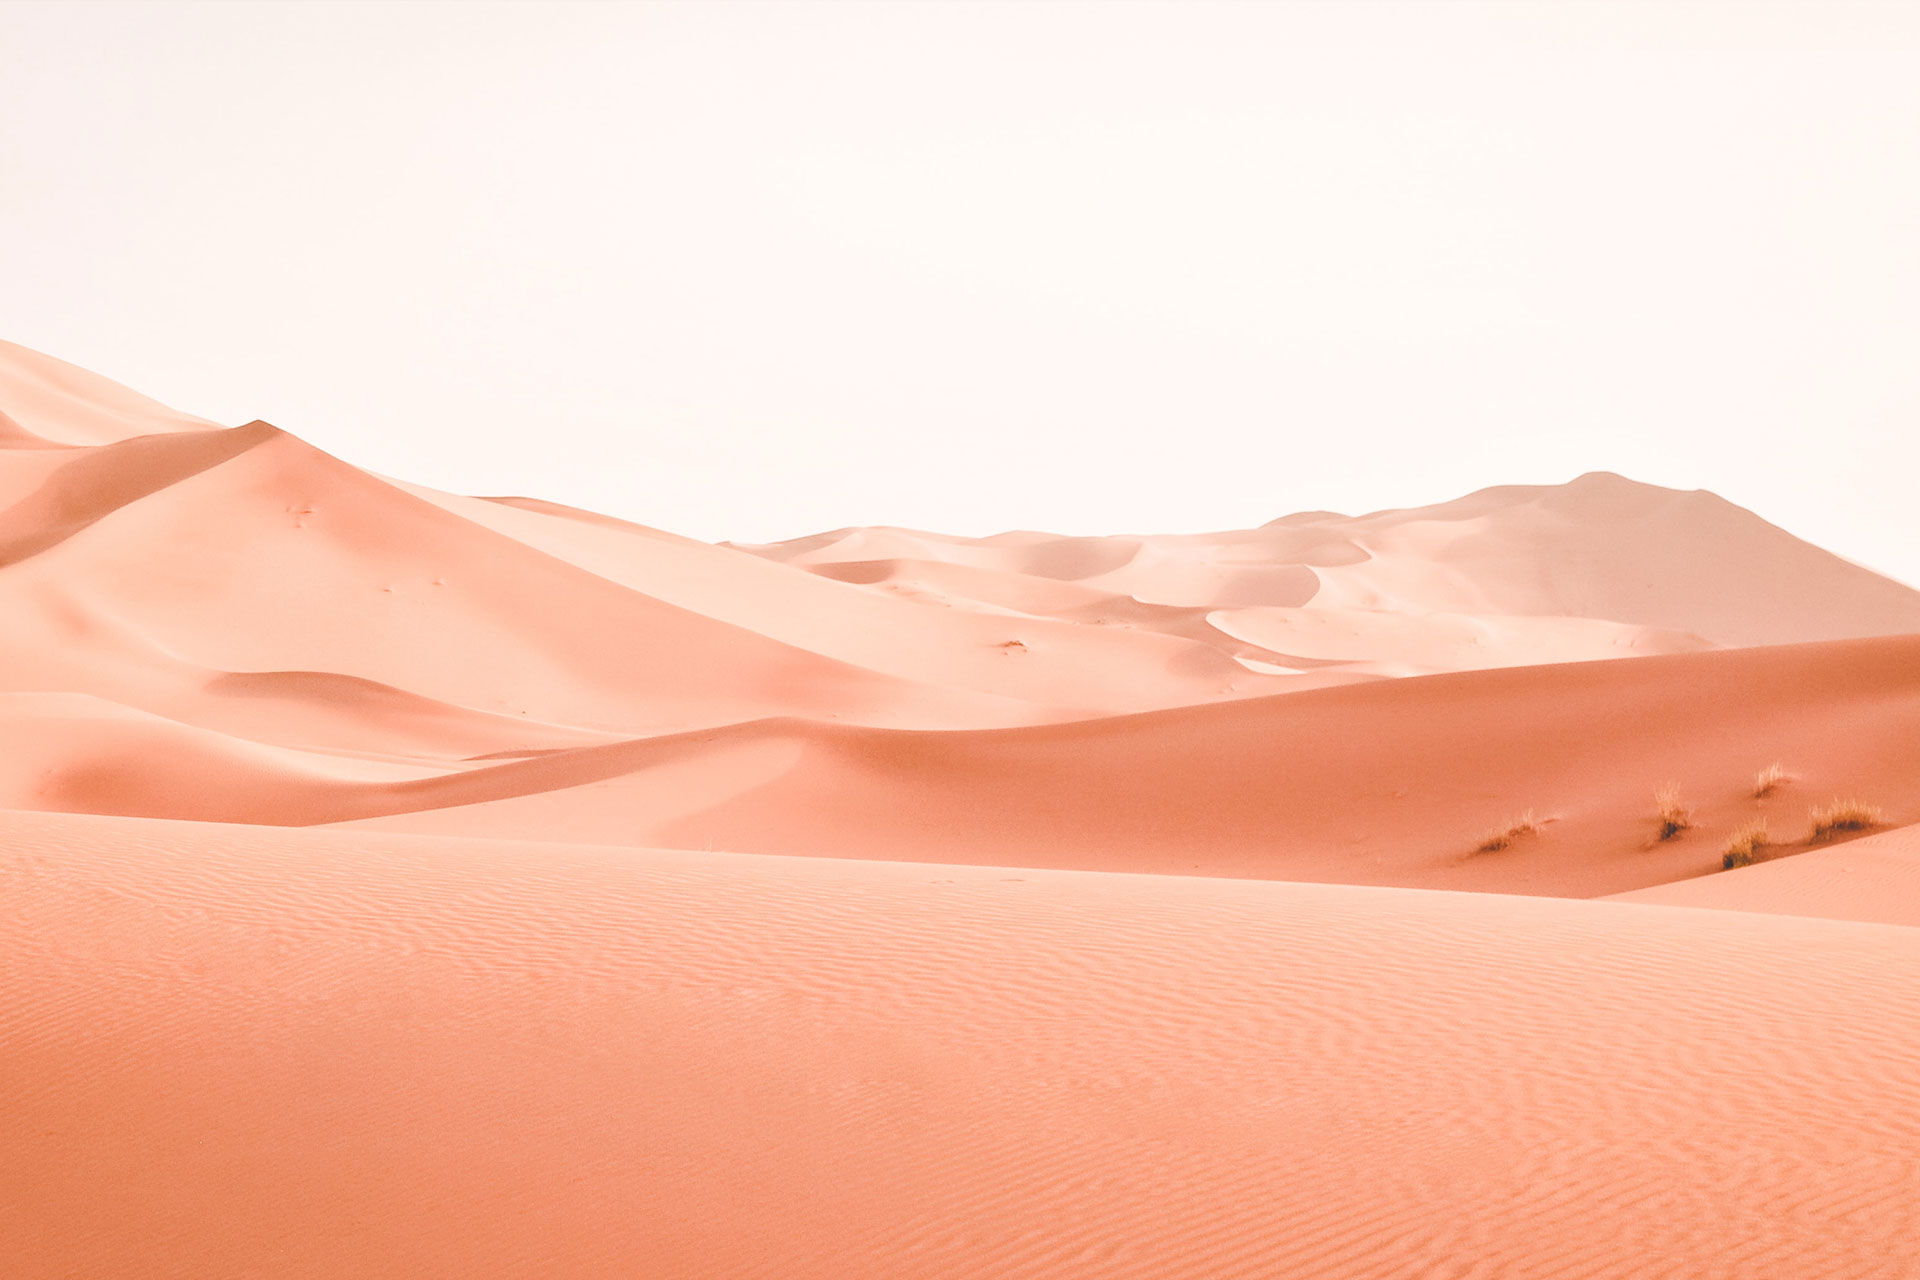
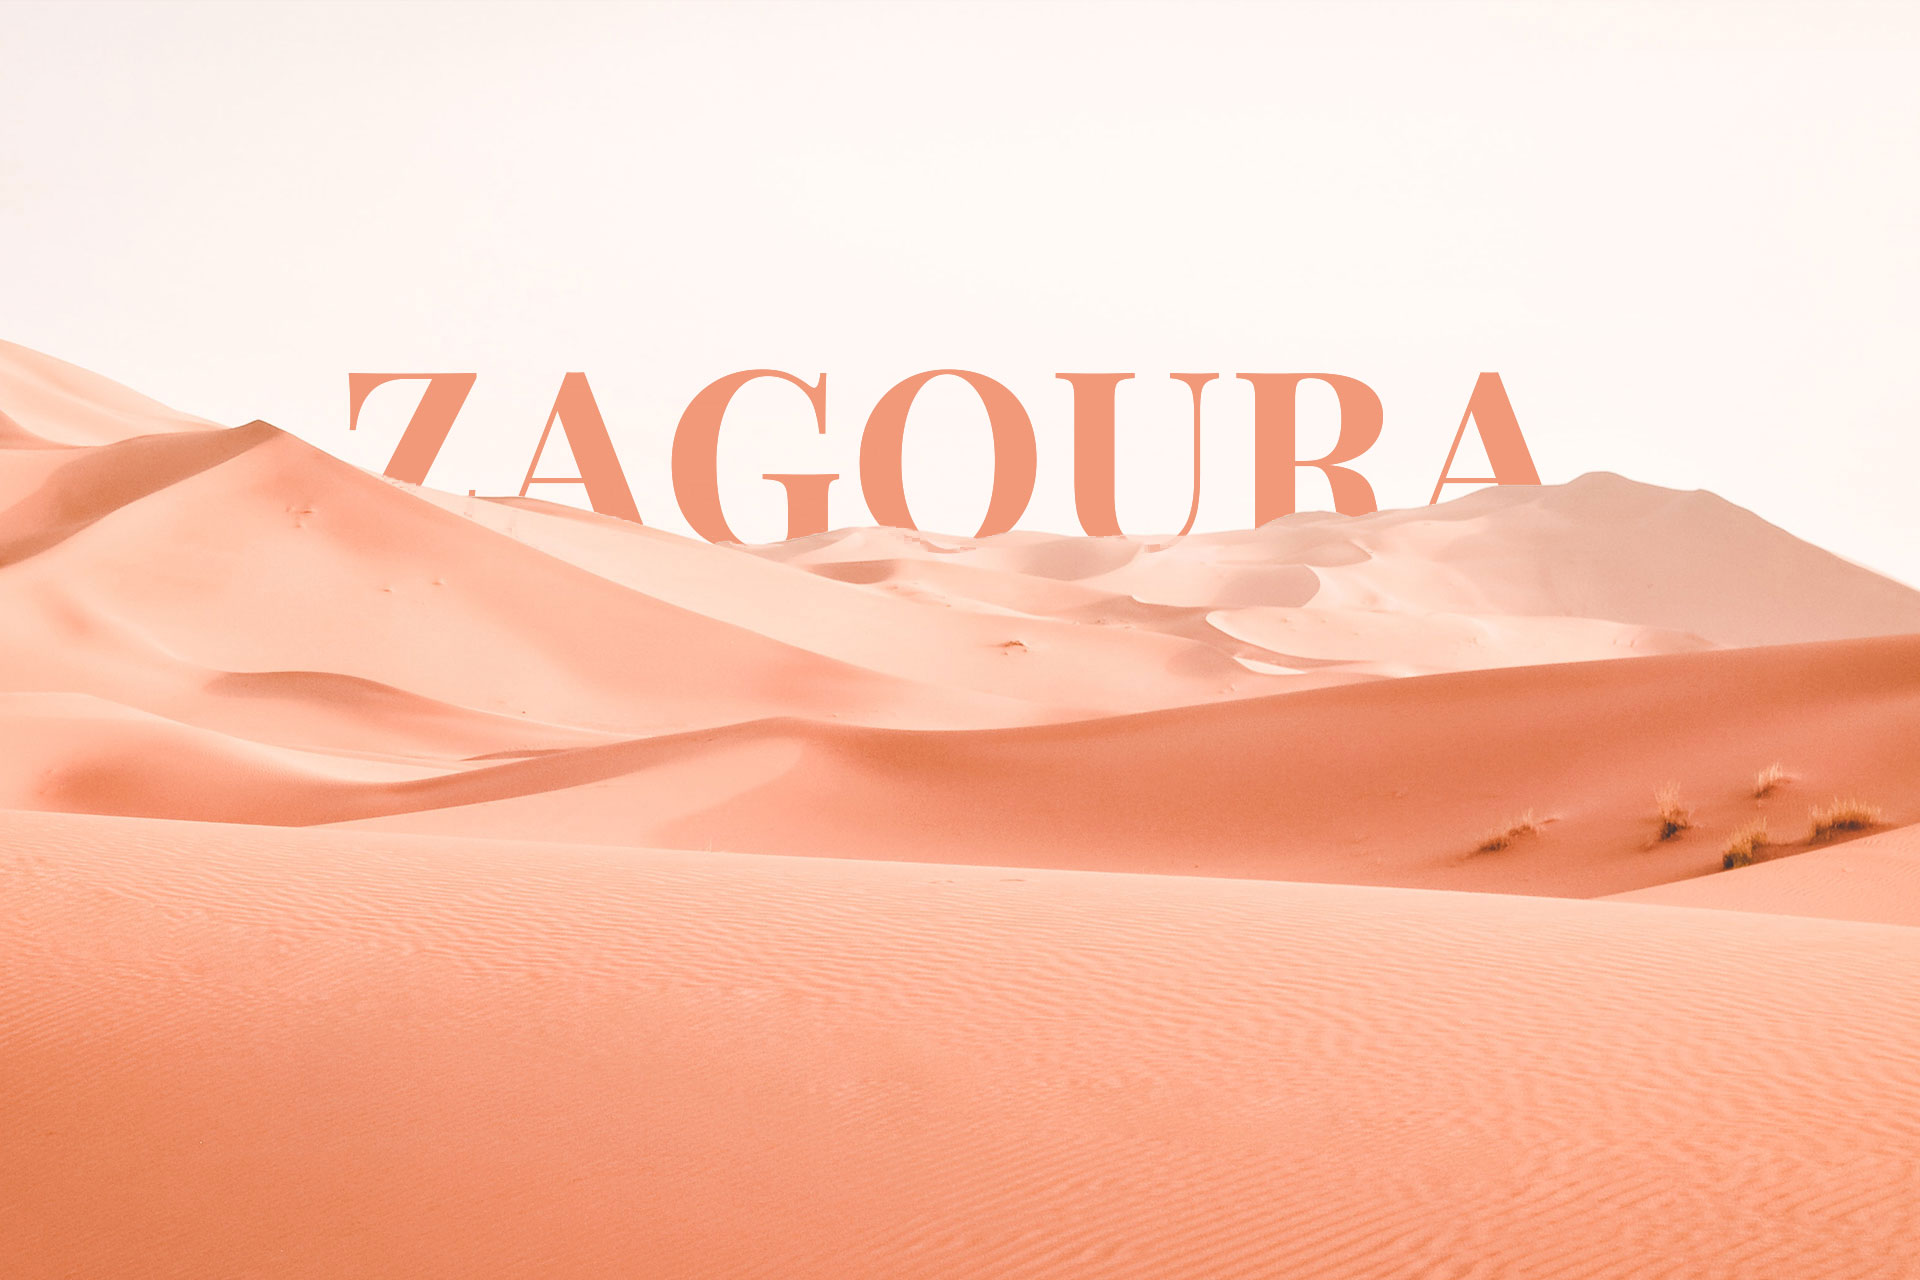
conception

Changed region(s): [[0.2812, 0.2812, 0.7188, 0.4375], [0.1562, 0.2812, 0.25, 0.375], [0.75, 0.2812, 0.8125, 0.375]]

diff --git a/Prototype-Siteweb-Responsive-Zagoura/index.html b/Prototype-Siteweb-Responsive-Zagoura/index.html
@@ -53,22 +53,22 @@
     <div class="carousel-item active">
       <img src="img/image1.jpg" class="d-block w-100" alt="...">
       <div class="carousel-caption d-none d-md-block">
-        <h5 class="align-text-top">ZAGOURA</h5>
-        <p>Nulla vitae elit libero, a pharetra augue mollis interdum.</p>
+        <h5 class="align-text-top"></h5>
+        <p></p>
       </div>
     </div>
     <div class="carousel-item">
       <img src="img/image2.jpg" class="d-block w-100" alt="...">
       <div class="carousel-caption d-none d-md-block">
-        <h5>Second slide label</h5>
-        <p>Lorem ipsum dolor sit amet, consectetur adipiscing elit.</p>
+        <h5>colors of the desert</h5>
+        <p></p>
       </div>
     </div>
     <div class="carousel-item">
       <img src="img/image3.jpg" class="d-block w-100" alt="...">
       <div class="carousel-caption d-none d-md-block">
-        <h5>Third slide label</h5>
-        <p>Praesent commodo cursus magna, vel scelerisque nisl consectetur.</p>
+        <h5>summer vibes</h5>
+        <p></p>
       </div>
     </div>
   </div>
@@ -178,15 +178,83 @@
     
     <!-- Main Heading -->
     <div class="heading text-center py-5">
-      <h4 class="py-5">About us</h4>
-      <p>Phasellus lacinia fermentum bibendum. Interdum et malesuada fames ac ante ipsumien lacus, eu posuere odio luctus non. Nulla lacinia,
-        eros vel fermentum consectetur, risus purus tempc, et iaculis odio dolor in ex. </p>
+      <h4 class="py-5">About The City</h4>
+      <p>Zagora It is flanked by the mountain Zagora from which the town got its name. Originally it was called 'Tazagourt' (ⵜⴰⵣⴰⴳⵓⵔⵜ) the singular of plural 'Tizigirt' (ⵜⵉⵣⵉⴳⵉⵔⵜ), Berber for 'twinpeaks', referring to the fortress of the Murabitun, or Almoravid, people. In old European maps the mountain Zagora is already indicated but the town itself was only built in the 20th century. On the top of the Zagora mountain the remains of an Almoravid fortress can still be seen.</p>
     </div>
     
     
   </div>
 </section>
 
+
+<!-- ======= Footer ======= -->
+<footer id="footer">
+  <div class="footer-top">
+    <div class="container">
+      <div class="row">
+
+        <div class="col-lg-3 col-md-6">
+          <div class="footer-info">
+            <h3 class="navbar-brand">ZAGOURA</h3>
+            <p>
+              Zagoura <br>
+             535022, Morocco<br><br>
+              <strong>Phone:</strong> (+212) 06 66 30 40 50<br>
+              <strong>Email:</strong> info@zagoura.com<br>
+            </p>
+            <div class="social-links mt-3">
+              <a href="#" class="twitter"><i class="fab fa-twitter"></i></a>
+              <a href="#" class="facebook"><i class="fab fa-facebook-f"></i></a>
+              <a href="#" class="instagram"><i class="fab fa-instagram"></i></a>
+              <a href="#" class="google-plus"><i class="fab fa-youtube"></i></a>
+              <a href="#" class="linkedin"><i class="fab fa-pinterest"></i></a>
+            </div>
+          </div>
+        </div>
+
+        <div class="col-lg-2 col-md-6 footer-links">
+          <h4>Useful Links</h4>
+          <ul>
+            <li><i class="bx bx-chevron-right"></i> <a href="#">Home</a></li>
+            <li><i class="bx bx-chevron-right"></i> <a href="#">About us</a></li>
+            <li><i class="bx bx-chevron-right"></i> <a href="#">Events</a></li>
+            <li><i class="bx bx-chevron-right"></i> <a href="#">Terms of service</a></li>
+            <li><i class="bx bx-chevron-right"></i> <a href="#">Privacy policy</a></li>
+          </ul>
+        </div>
+
+        <div class="col-lg-3 col-md-6 footer-links">
+          <h4>Our Services</h4>
+          <ul>
+            <li><i class="bx bx-chevron-right"></i> <a href="#">Planing</a></li>
+            <li><i class="bx bx-chevron-right"></i> <a href="#">Booking</a></li>
+            <li><i class="bx bx-chevron-right"></i> <a href="#">Tours</a></li>
+            <li><i class="bx bx-chevron-right"></i> <a href="#">Food</a></li>
+            <li><i class="bx bx-chevron-right"></i> <a href="#">Photography</a></li>
+          </ul>
+        </div>
+
+        <div class="col-lg-4 col-md-6 footer-newsletter">
+          <h4>Our Newsletter</h4>
+          <p>Tamen quem nulla quae legam multos aute sint culpa legam noster magna</p>
+          <form action="" method="post">
+            <input type="email" name="email"><input type="submit" value="Subscribe">
+          </form>
+
+        </div>
+
+      </div>
+    </div>
+  </div>
+
+  <div class="container">
+    <div class="copyright">
+      &copy; Copyright <strong><span>ZAGOURA</span></strong>. All Rights Reserved
+    </div>
+    <div class="credits">Designed by Yassin</div>
+  </div>
+</footer>
+<!-- End Footer -->
 
 
 

diff --git a/Prototype-Siteweb-Responsive-Zagoura/css/style.css b/Prototype-Siteweb-Responsive-Zagoura/css/style.css
@@ -24,6 +24,7 @@ p{
 }
 
 .navbar .navbar-brand{
+  margin-left: 100px;
   font-family: 'Playfair Display', serif;
   text-transform: uppercase;
   font-weight: 700;
@@ -31,6 +32,7 @@ p{
 }
 
 .navbar .nav-link {
+  margin-right: 100px;
   font-size: 14px;
   text-transform: uppercase;
   padding-left: 1rem!important;
@@ -74,6 +76,7 @@ p{
   background-size: cover;
 }
 #home-heading {
+  
   position: relative;
   min-height: 200px;
   background: url('../img/image4.jpg');
@@ -123,29 +126,17 @@ p{
   .small-about .heading h4{
     font-size: 3rem;
     font-weight: 700;
-    color: #ffff;
+    color: #A64E2E;
+    
+  }
+  .small-about .heading p{
+   
+    font-weight: 400;
+    color: #A64E2E;
     
   }
 
-  .social_icons {
-    
-    margin-top: 20px;
-    list-style: none;
-    display: flex;
-    justify-content: center;
-    margin: 0 auto;
-    font-size: 2rem;
-    
-    
-  }
-  .social_icons a {
-    color: #fff;
-    margin-left: 10px;
-    
-    }
- 
-  .social_icons a:hover {
-    color: #A64E2E;}
+  
 
     
     
